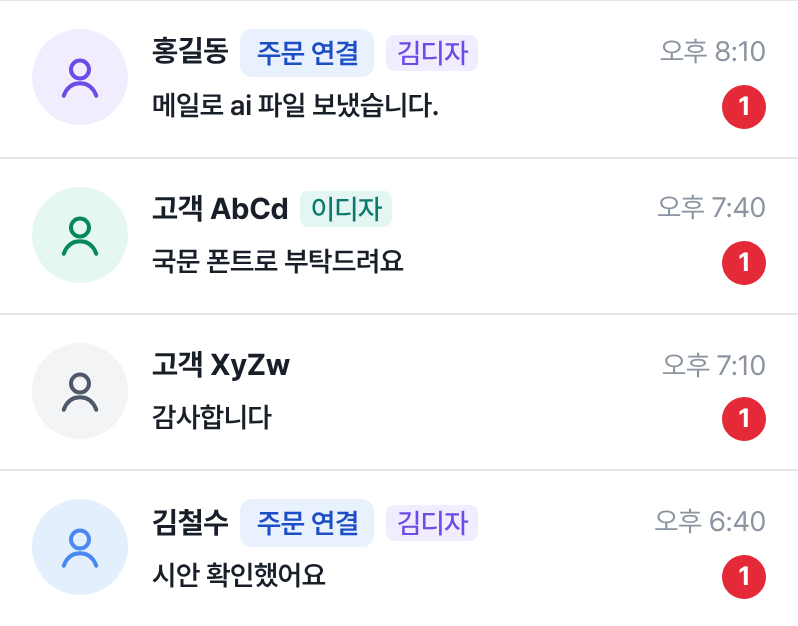
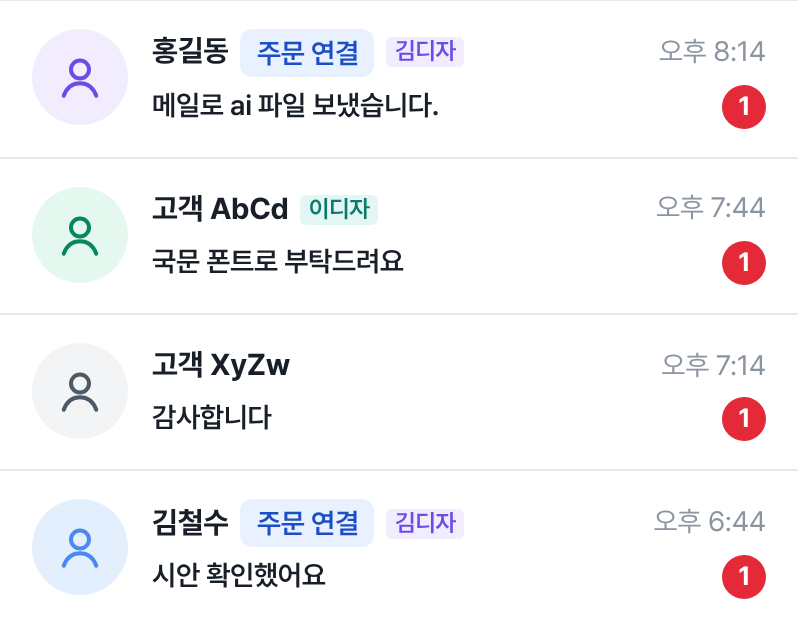
톡톡 목록 담당 표시를 더 작게 (12px, 높이 15px — 사용자 요청으로 이 표시만 14px 예외), 안내서 그림도
Claude-Session: https://claude.ai/code/session_01Abfsu9LLooC7rduTcq19z3

diff --git a/public/style.css b/public/style.css
@@ -1050,8 +1050,9 @@ form.inline { display: inline; margin: 0; }
 .talk-memo { flex: 0 1 auto; min-width: 0; overflow: hidden; text-overflow: ellipsis; white-space: nowrap; color: var(--muted); font-size: 14px; }
 .talk-tag { flex: 0 1 auto; min-width: 0; display: inline-block; overflow: hidden; text-overflow: ellipsis; height: 24px; line-height: 24px; padding: 0 8px; border-radius: 6px; background: #6b7684; color: #fff; font-size: 14px; font-weight: 600; white-space: nowrap; }
 .talk-tag.linked { background: var(--primary-weak); color: var(--primary-dark); }
-/* 톡톡 목록의 담당: '주문 연결' 표시보다 작게 (글자는 14px 유지, 높이·여백만 줄임), 사람마다 색 */
-.talk-who-mini { flex: 0 1 auto; min-width: 0; max-width: 6em; overflow: hidden; text-overflow: ellipsis; white-space: nowrap; height: 18px; line-height: 18px; padding: 0 5px; border-radius: 4px; background: var(--sc-bg, var(--line-2)); color: var(--sc-fg, var(--text-2)); font-size: 14px; font-weight: 500; letter-spacing: -0.02em; }
+/* 톡톡 목록의 담당: '주문 연결' 표시의 절반쯤으로 작게, 사람마다 색
+   (사용자 요청 2026-11: 이 표시만 글자 14px 규칙 예외로 12px) */
+.talk-who-mini { flex: 0 1 auto; min-width: 0; max-width: 6em; overflow: hidden; text-overflow: ellipsis; white-space: nowrap; height: 15px; line-height: 15px; padding: 0 4px; border-radius: 3px; background: var(--sc-bg, var(--line-2)); color: var(--sc-fg, var(--text-2)); font-size: 12px; font-weight: 600; letter-spacing: -0.02em; align-self: center; }
 .talk-time { flex: none; margin-left: auto; padding-left: 6px; color: var(--muted); font-size: 14px; white-space: nowrap; }
 .talk-last { display: flex; align-items: center; gap: 8px; min-width: 0; }
 .talk-text { flex: 1; min-width: 0; overflow: hidden; text-overflow: ellipsis; white-space: nowrap; color: var(--text-2); font-size: 14px; }
